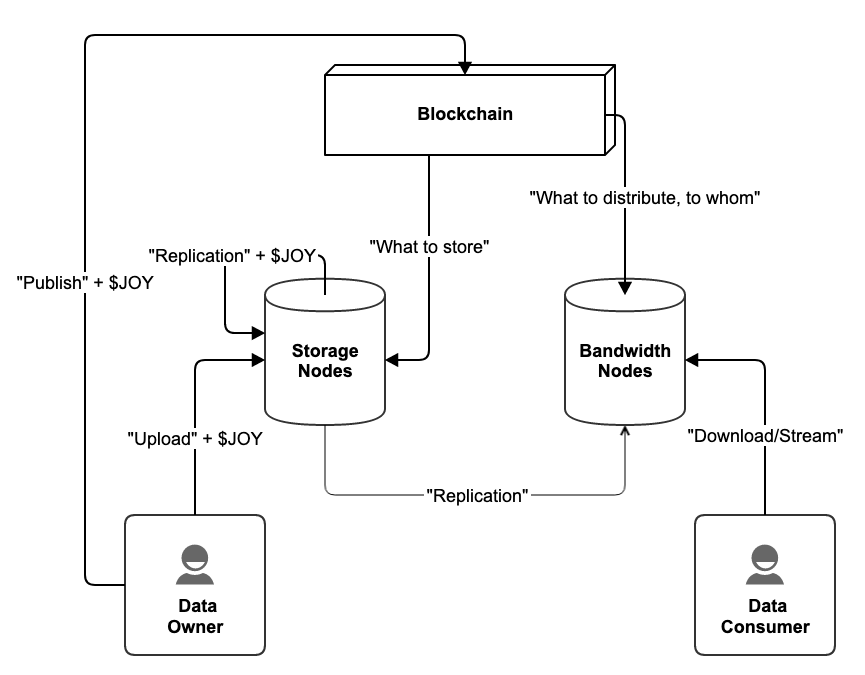
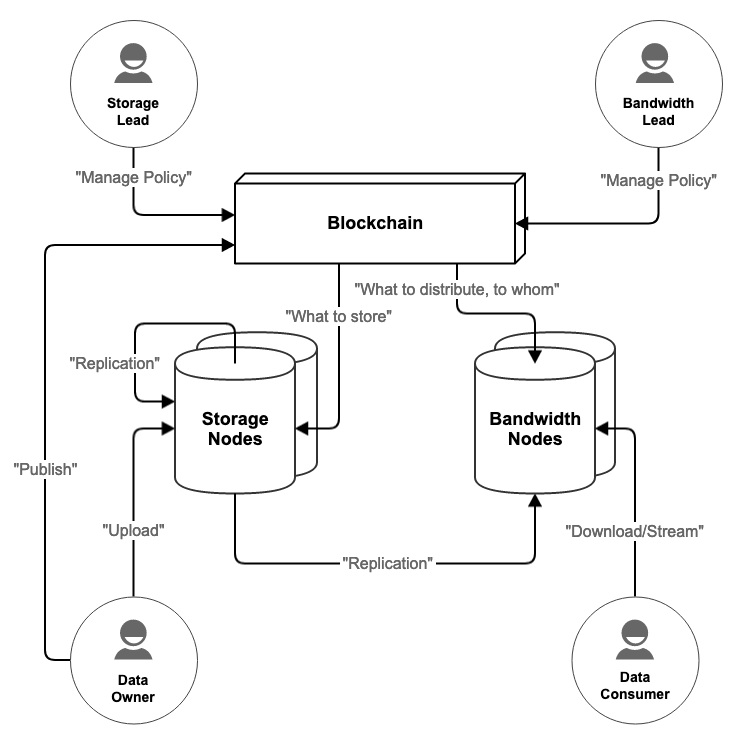
GitBook: [#208] WIP

diff --git a/subsystems/storage/README.md b/subsystems/storage/README.md
@@ -13,13 +13,29 @@ This subsystem is under active development, and this document attempts to both e
 
 ## Introduction
 
-The network has a variety of static data assets used in different context. In the content directory, for example, there are avatars and cover images used for channels, and also preview thumbnail images for videos, as well as the video media itself, which may exist in multiple different resolutions and encodings for the same content. In the membership system images are used for the avatar of a user, and there is also a generalised storage capability. There is also a generalised storage service for the benefit of the council and each individidual working group, which are intended to be used for storing assets that are of use to actors occupying the given roles over time, or to the platform as a whole.
+The network has a variety of static data assets used in different context. In the content directory, for example, there are avatars and cover images used for channels, and also preview thumbnail images for videos, as well as the video media itself, which may exist in multiple different resolutions and encodings for the same content. In the membership system images are used for the avatar of a user, and there is also a generalized storage capability. There is also a generalised storage service for the benefit of the council and each individidual working group, which are intended to be used for storing assets that are of use to actors occupying the given roles over time, or to the platform as a whole.
 
 The purpose of the storage and bandwidth system is to provide the capability for appropriate actors to publish storage assets into the system for the purpose of long term archiving and at scale low-latency distribution of data to end users.
 
 ## Philosophy
 
-There is an obvious first-principles question of why the network has these capabilities built in, in the sense that it directly finances and coordinates the provisioning of these services internally through its own administrative beuroracy, and using its own custom technolgy stack. Why can't the system just rely on AWS or some other similar offering?
+### Introduction
+
+The handbook largely attempts to not motivate or frame how the system works, however, in the case of this subsystem it is sufficiently complex that it invariably generates a range of questions when confronted by newcomers, hence we attempt to address this more directly here.
+
+### Model
+
+There is an obvious first-principles question of why the network has these capabilities built in, in the sense that it directly finances and coordinates the provisioning of these services internally through its own administrative bureaucracy, and using its own custom technology stack. Why can't the system just rely on AWS or some other similar offering?
+
+The reason for this is that the network, as represented by its governance apparatus, cannot enter into traditional contractual arrangements directly with off-chain entities, like the operators of traditional cloud infrastructure. This is a consequence of both the contemporary business model constraints of such operators, and the limits of what most jurisdictions would consider valid counterparties in an enforceable contract. The only way to bridge this gap would be if the platform selected some on-chain intermediary who effectively custodied the business relationship with the platform on behalf of the network, however, this would be prohibitively risky should this actor become faulty or byzantine, as there would be no recourse.
+
+A third alternative would have been to rely on other blockchain systems which have been explicitly built for the purpose of providing these services, this includes offerings such as Arweave, Sia+SkyNet, Filecoin, Storj, Meson and similar systems. Each of these systems have their own idiosynchratic reason for not 
+
+but also shared reasons: deep interop..., technical maturiy & stability.
+
+Long term issue.
+
+### Design
 
 Address custom tech stack separately from ecnomics!!!!!!!!!
 
@@ -120,7 +136,7 @@ The key architectural properties of the system is as follows
 
 This can all be succinctly summarize in the following figure.
 
-![](../../.gitbook/assets/storage_v2.png)
+![Network Architecture](../../.gitbook/assets/storage_v2.png)
 
 ## Scenarios
 
